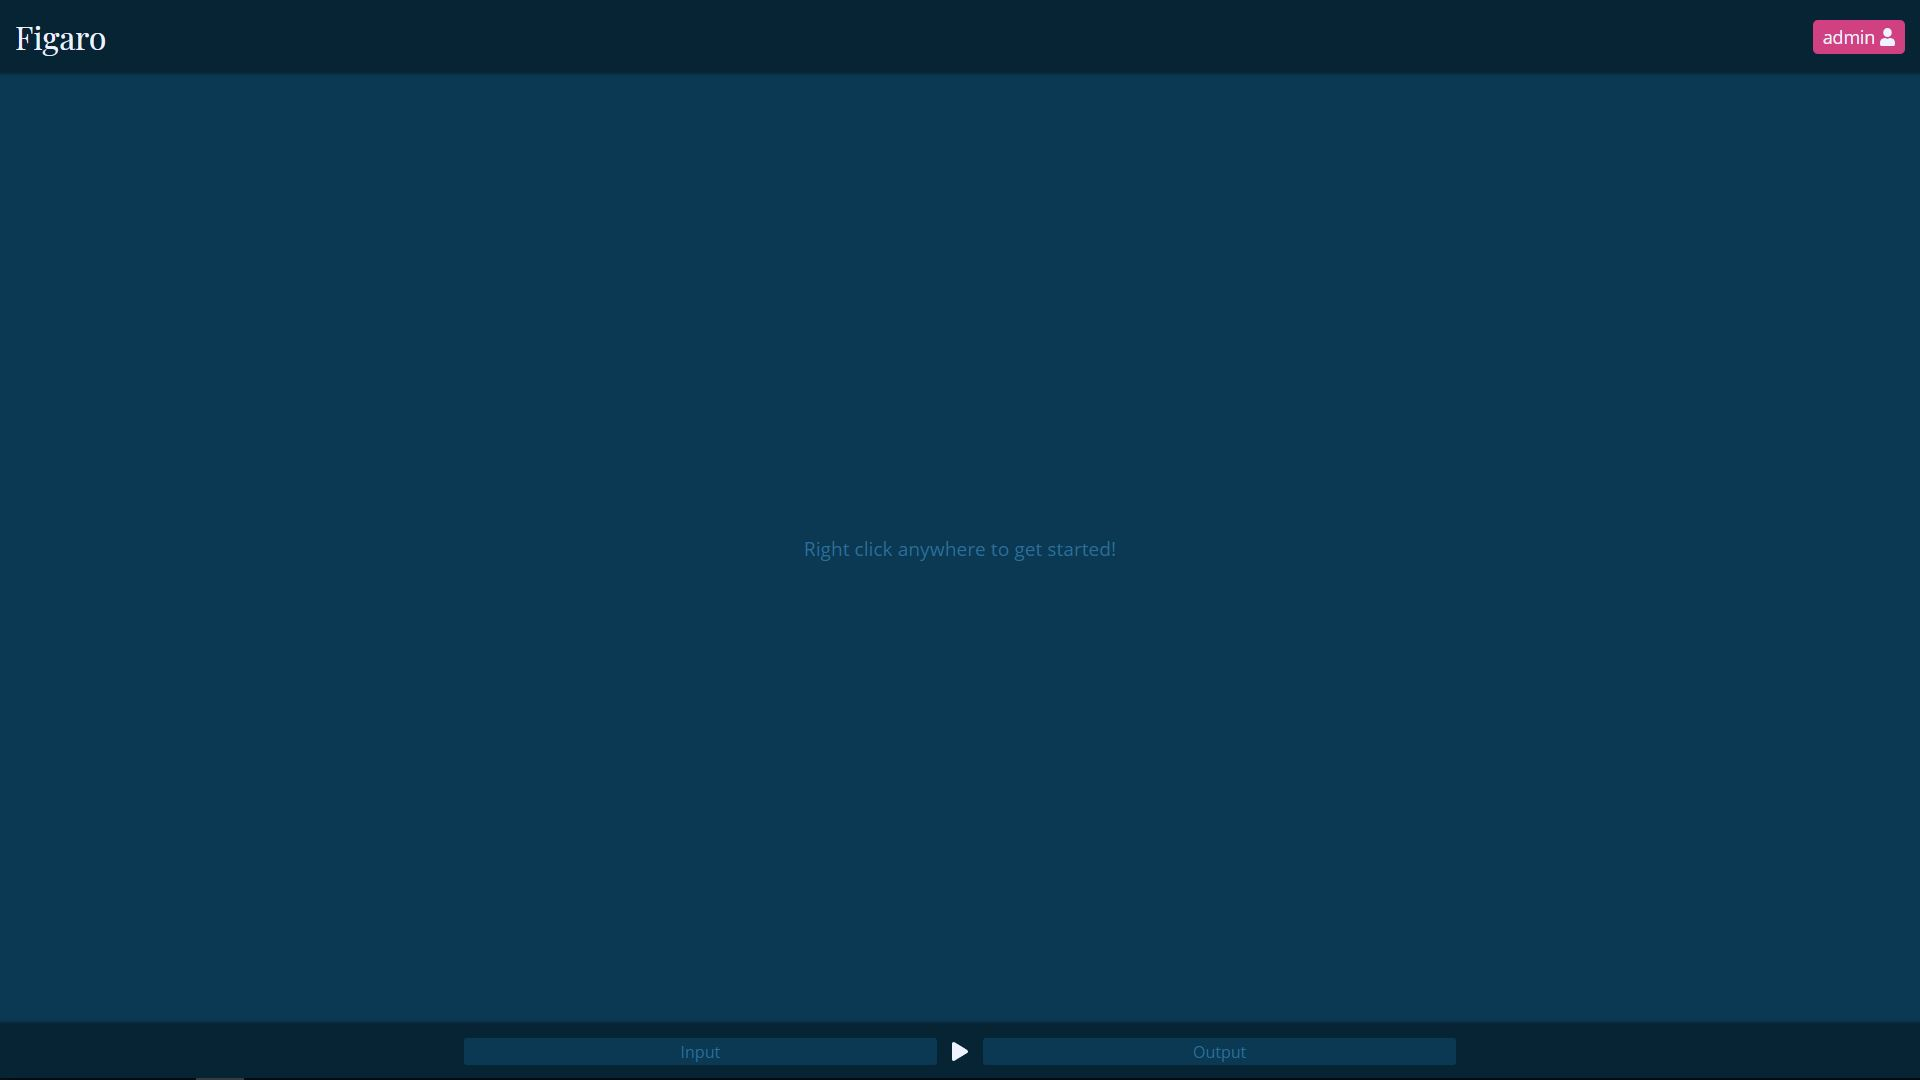
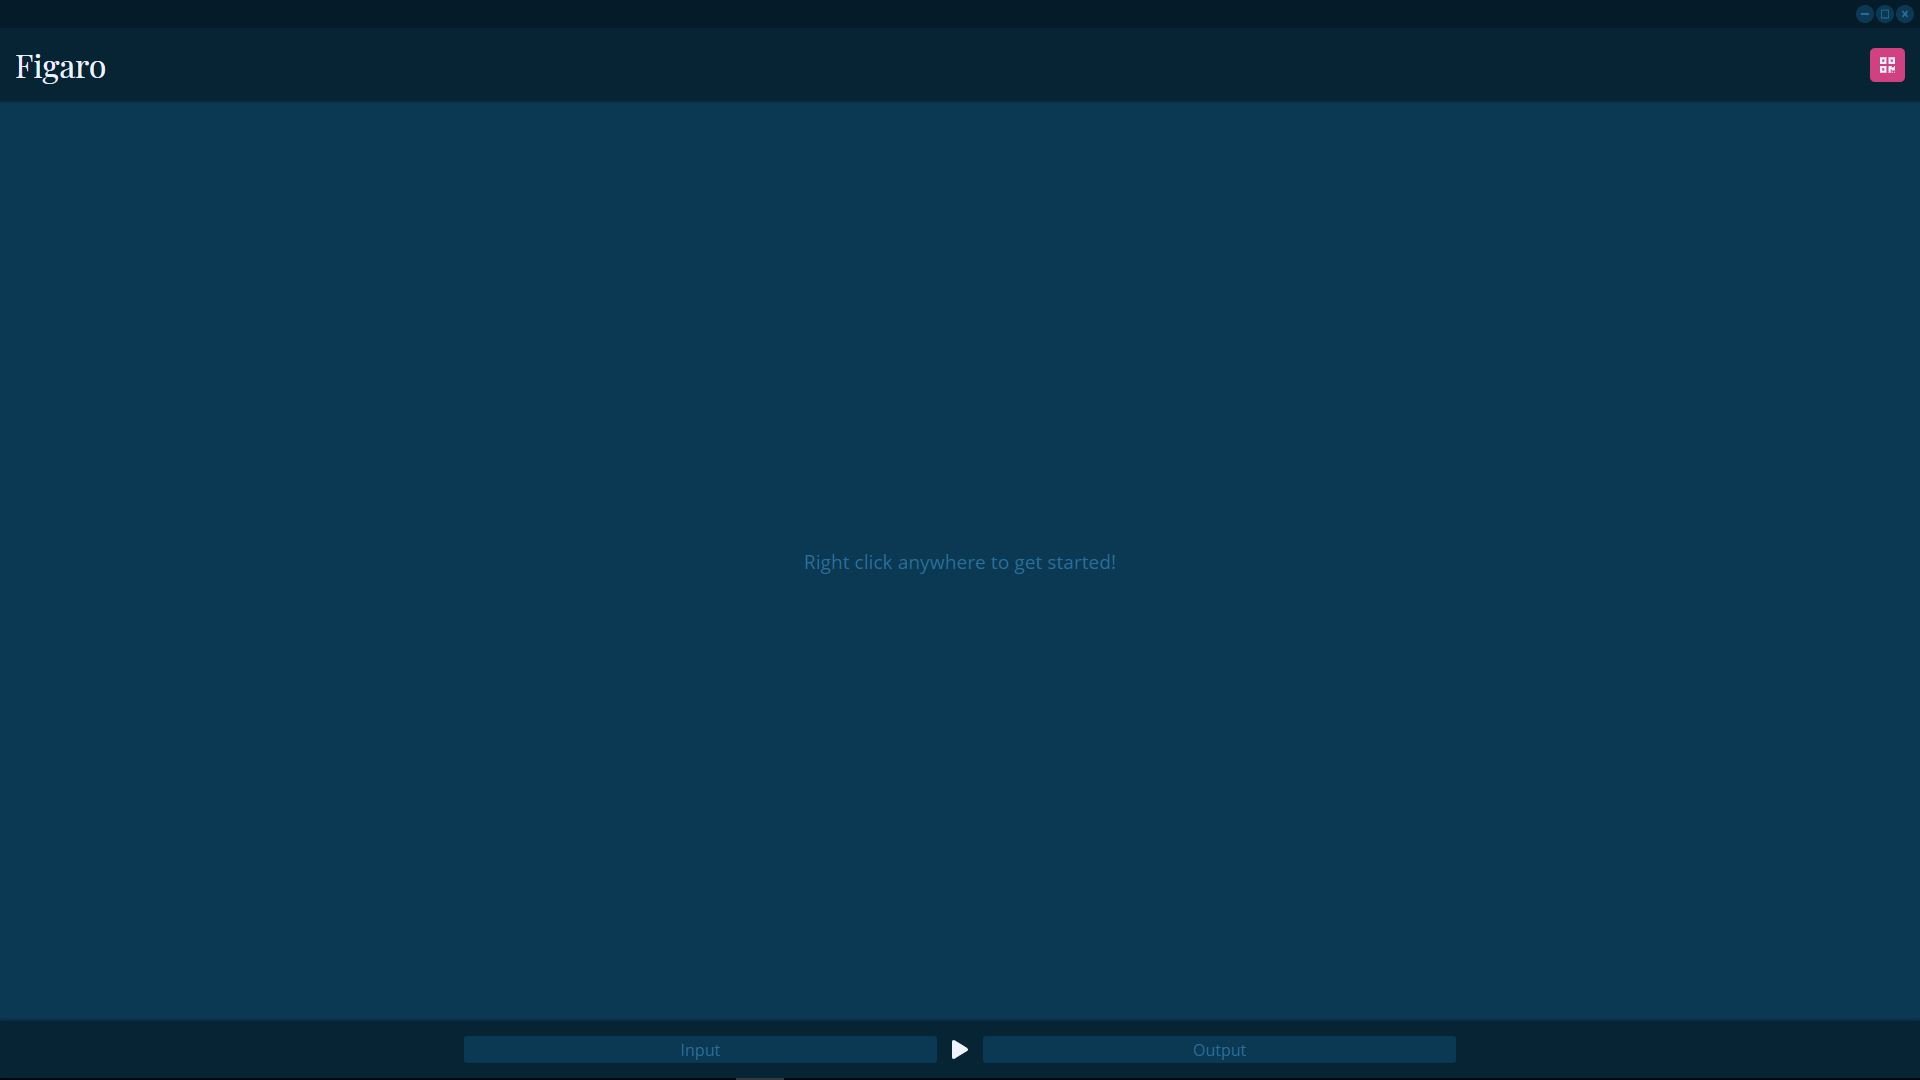
:memo: updated docs (also in regard to #29)

Changed region(s): [[0.0, 0.0, 1.0, 0.0917], [0.4062, 0.4889, 0.5938, 0.55]]

diff --git a/README.md b/README.md
@@ -12,18 +12,23 @@
 
 ## About
 
-Real-time open-source voice modification program. Can be useful for many things, especially when used in combination with virtual sound i/o devices.
+Real-time open-source voice modification program & sound board. Can be useful for many things, especially when used in combination with virtual sound i/o devices.
+
+![figaro collage](media/figaro-collage.png)
+
+![figaro demo](media/figaro-demo.gif)
 
 ## Table of Contents
 
 - [About](#about)
 - [Table of Contents](#table-of-contents)
 - [Setup](#setup)
-  - [Linux](#linux)
-  - [Mac](#mac)
-  - [Windows](#windows)
-  - [Manual Setup](#manual-setup)
-    - [Advanced setup](#advanced-setup)
+  - [Development](#development)
+    - [Linux](#linux)
+    - [Mac](#mac)
+    - [Windows](#windows)
+    - [Manual Setup](#manual-setup)
+  - [Advanced setup](#advanced-setup)
 - [Usage](#usage)
   - [CLI](#cli)
   - [GUI](#gui)
@@ -38,9 +43,18 @@ Real-time open-source voice modification program. Can be useful for many things,
 
 ## Setup
 
-If you're on `Linux` or `Windows`, setup is much easier now! Simply run the appropriate setup script and it will guide you through the whole process.
+If you're just looking to use *Figaro* and not work on it, then there's no reason to set up the development environment like described below, simply download the appropriate release for your platform from the [releases](https://github.com/MattMoony/figaro/releases) page and you're good to go!
 
-### Linux
+<div align="center">
+  <a href="https://github.com/MattMoony/figaro/releases/download/v0.3-alpha/Figaro.Setup.0.3.0-alpha.exe"><img src="media/download-windows.png" height="75px" /></a>
+  <a href="https://github.com/MattMoony/figaro/releases/download/v0.3-alpha/figaro-gui-0.3.0-alpha.tar.gz"><img src="media/download-linux.png" height="75px" /></a>
+</div>
+
+### Development
+
+If you're on `Linux`, `Windows` or `Mac`, then setting up should be easy! Simply run the appropriate setup script and it will guide you through the whole process.
+
+#### Linux
 
 Make `./setup.sh` executable ... (or run it with an appropriate interpreter) ...
 
@@ -50,11 +64,11 @@ chmod 755 ./setup.sh
 
 ... execute it: `./setup.sh` ... and have fun with `python figaro.py`!
 
-### Mac
+#### Mac
 
 The same as the [Linux Setup](#linux), just use `./setup-mac.sh` instead of `./setup.sh`.
 
-### Windows
+#### Windows
 
 First, in order to allow the setup _powershell_ script to run, you need to execute the following command in an administrator powershell:
 
@@ -64,7 +78,7 @@ Set-ExecutionPolicy RemoteSigned
 
 ... afterwards, executing `.\setup.ps1` will guide you through the whole setup process! You can now execute `python figaro.py`.
 
-### Manual Setup
+#### Manual Setup
 
 First of all, for `Figaro` to be able to work with audio files other than `wav`, you need to download and install `ffmpeg` (see [References](#References) for the link to the official download page).
 
@@ -76,7 +90,7 @@ First of all, for `Figaro` to be able to work with audio files other than `wav`,
 
 If everything works out, you're good to go!
 
-#### Advanced setup
+### Advanced setup
 
 The following steps will explain how to use this program with the commonly used voice-chat application `Discord` on Windows:
 
@@ -181,8 +195,10 @@ Just a small preview of what is about to come. It's very likely that this roadma
 * [ ] [GUI](#gui)
   * [x] I/O device selection
   * [x] Live sound wave graph
-  * [ ] Filter control
-  * [x] Soundboard 
+  * [x] Filter control
+  * [ ] Soundboard
+    * [x] Functionality
+    * [ ] Advanced features
 * [x] Filters
   * [x] Volume
   * [x] Pitch-Shift

diff --git a/docs/gui.md b/docs/gui.md
@@ -1,9 +1,22 @@
 # GUI - Usage
 
-At the moment, to run Figaro's GUI, depending on the platform you're on, run the appropriate script from the project's root directory.
+## Launching
+
+If you are using one of the releases available for download on the [release](https://github.com/MattMoony/figaro/releases) page, simply starting *Figaro* should already present you with its GUI.
+
+### Development
+
+At the moment, the easiest way to run Figaro's GUI in your development environment, depending on the platform you're on, is to simply run the appropriate script from the project's root directory.
 
 * Linux & macOS: `./gui.sh`
 * Windows: `.\gui.ps1`
+
+... bear in mind that for this to work, however, you should also launch the `gatsby` development environment for the web part of the GUI in a separate shell:
+
+```bash
+cd lib/gui/web
+npm run dev
+```
 
 ## Basic GUI Usage
 
@@ -25,11 +38,19 @@ The general structure of the Figaro GUI is the following:
 
 ## GUI Components
 
+### Title- / Controlbar
+
+Your classical window controlbar that grants you the controls you'd normally find on every window: *minimize*, *toggle maximize*, *close*.
+
+![controlbar](../media/gui/titlebar.JPG)
+
 ### Header
 
-Despite the general _Figaro_ heading, the most important thing that can be found here, is the button to open the login/logout prompts. The individual dialogs shouldn't be too difficult to interact with, so feel free to skip this part.
+<img align="right" src="../media/gui/auth-key.JPG" height="175px" />
 
-Since you are reading this, I think I can rightfully assume that you're interested in a detailed description of how to interact with this button and the subsequent dialogs. Since the process of logging in has already been covered in the [setup and configuration](#setup-and-configuration) section of this usage guide, I'll only cover the logout dialog here.
+Despite the general _Figaro_ heading, the most important thing that can be found here, is the button that will show you the QR code for authenticating mobile devices in future updates.
+
+Other than that, at the moment, there's not much more functionality in this header part of the program. _Stay tuned for Figaro's mobile app, however... ^^_
 
 ### Workspace
 
@@ -43,7 +64,16 @@ To open such a window, simply _right click_ anywhere on the workspace area in th
 
 #### Filters
 
-_soon to be implemented and documented_
+Upon opening the *Filters* workspace component, you won't see too much, apart from a big pink *"Add"* button - click on it and you'll be able to add any one of the filters you have installed to your current audio stream.
+
+Click on one or multiple to select them and then simply click outside the popup to hide it again. You'll now see all of the currently applied filters in the dragable filters window.
+
+To modify any of the running filters' settings / options, simply open the filters dropdown menu and adjust any one of their individual sliders.
+
+<div align="center">
+  <img src="../media/gui/filters.JPG" />
+  <img src="../media/gui/filters-2.JPG" />
+</div>
 
 #### Sounds
 
